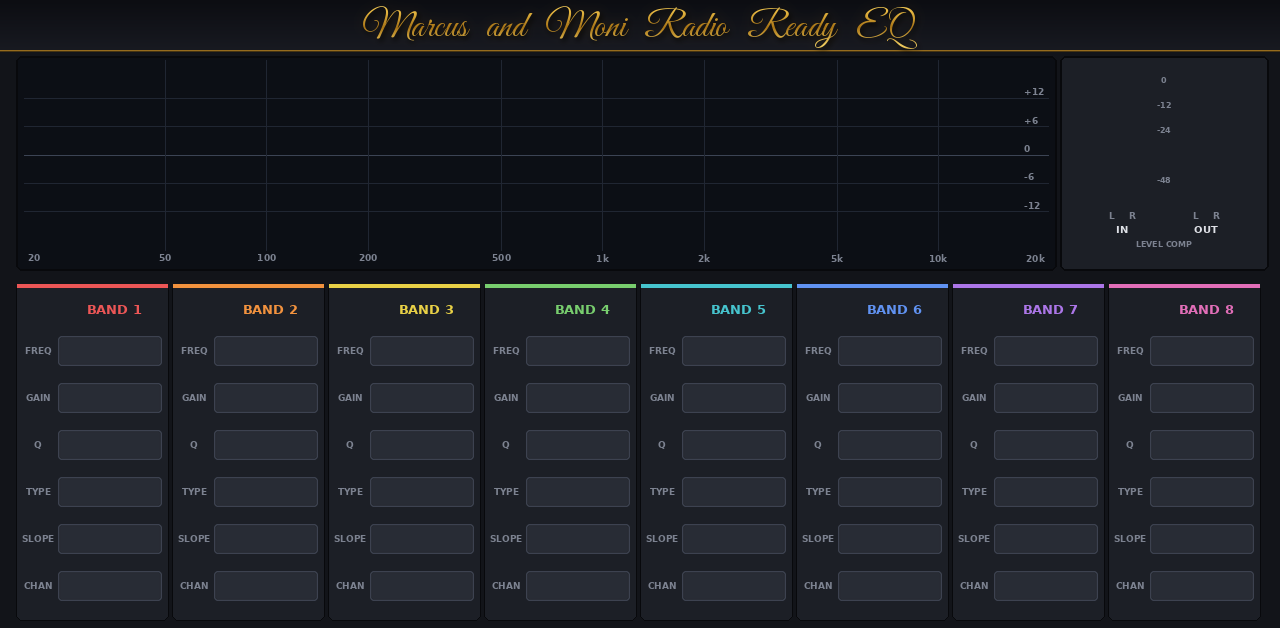
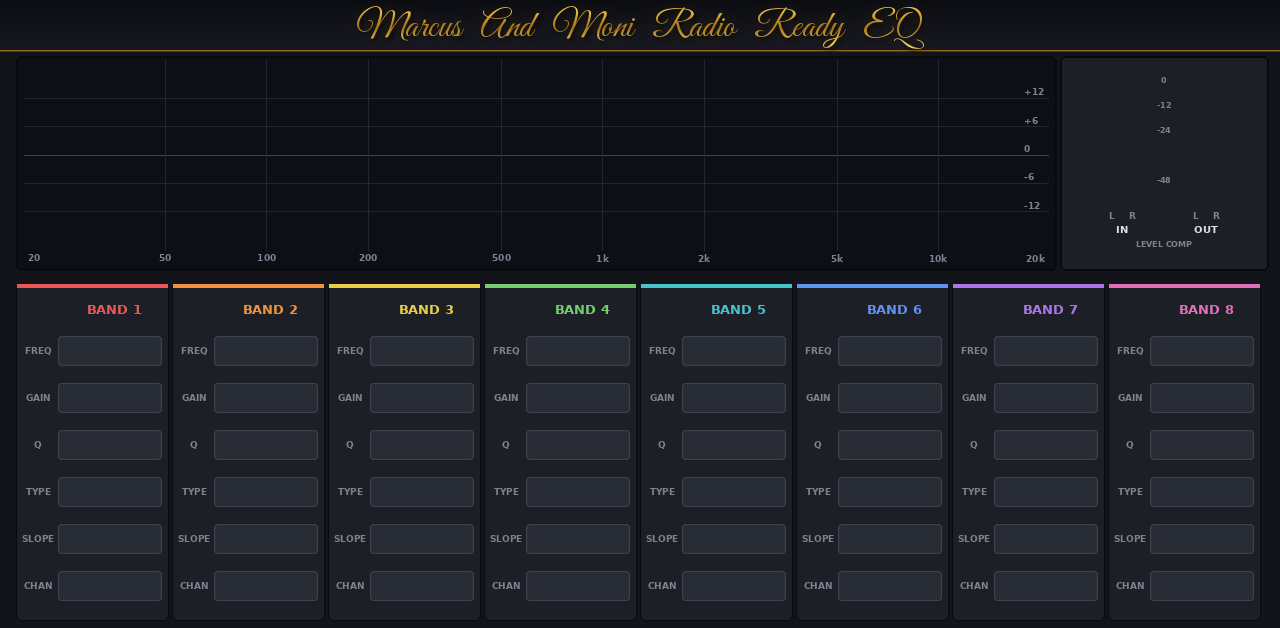
RadioReady EQ skin title: Marcus And Moni Radio Ready EQ
Claude-Session: https://claude.ai/code/session_01XRqyjua6wzinB9NqNDDbhg

Changed region(s): [[0.2812, 0.0, 0.7188, 0.0908]]

diff --git a/RadioReady-MPC/tools/make_skin.py b/RadioReady-MPC/tools/make_skin.py
@@ -24,7 +24,7 @@ OUT = os.path.join(SKIN_DIR, "Plugin Skins")
 W, H = 1280, 628
 FRAMES, NUMFRAMES, SS = 128, 127, 3
 VERSION = "1.0.1.0"
-TITLE = "Marcus and Moni Radio Ready EQ"          # the gold script title across the top of every tab
+TITLE = "Marcus And Moni Radio Ready EQ"          # the gold script title across the top of every tab
 TITLE_H = 50
 SCRIPT_FONTS = [os.path.join(ROOT, "tools", "fonts", n) for n in ("GreatVibes-Regular.woff", "GreatVibes-Regular.ttf")]
 FONT_DIRS = ["/usr/share/fonts/truetype/dejavu", "/usr/share/fonts/dejavu", "/Library/Fonts", "C:/Windows/Fonts"]

diff --git a/RadioReady-MPC/mpc/INSTALL.md b/RadioReady-MPC/mpc/INSTALL.md
@@ -2,7 +2,7 @@
 
 A professional 8-band EQ with a QUICK RADIO READY section, live analyzer, EQ curve, meters and 55 presets, built as a
 native MPC OS VST2 insert effect and loaded by MPC's built-in plugin host. In the plugin browser it's
-**RadioReady EQ** by **RadioReady Audio**. The skin's gold title reads **Marcus and Moni Radio Ready EQ**.
+**RadioReady EQ** by **RadioReady Audio**. The skin's gold title reads **Marcus And Moni Radio Ready EQ**.
 
 ## Requirements
 - A first-generation MPC OS standalone device (32-bit ARM: MPC X, Live / Live II, One, Key 61, Force).
@@ -24,7 +24,7 @@ EQ7, ASR10, SP1200 and GlueBus plugins; none of them share files.
 
 ## Screens (tabs)
 **All tabs:**
-- The gold title bar reads Marcus and Moni Radio Ready EQ.
+- The gold title bar reads Marcus And Moni Radio Ready EQ.
 - The graph shows the EQ curve (±18 dB, including the Quick section) over the live analyzer.
 - On the right are the IN and OUT peak meters and **LEVEL COMP**, the automatic level compensation in use.
 

diff --git a/RadioReady-MPC/docs/DESIGN.md b/RadioReady-MPC/docs/DESIGN.md
@@ -69,7 +69,7 @@ out, because a mono-compatible mix carries its energy in the Mid. Quick settings
 Measured on band-limited pink noise, the worst case is 0.14 dB.
 
 ## Skin
-- **Title:** a gold script "Marcus and Moni Radio Ready EQ" bar across the top of every tab.
+- **Title:** a gold script "Marcus And Moni Radio Ready EQ" bar across the top of every tab.
 - **Tabs:** EQ GAIN/FREQ and EQ Q/TYPE share one band screen with different Q-Link maps; RADIO READY has its own.
 - **Graph:** 64 curve columns and 32 analyzer bars, each a filmstrip bound to a read-only parameter.
 - **Memory:** about 64 MB decoded, less than EQ7. The value boxes are drawn in the backgrounds, and their drag
